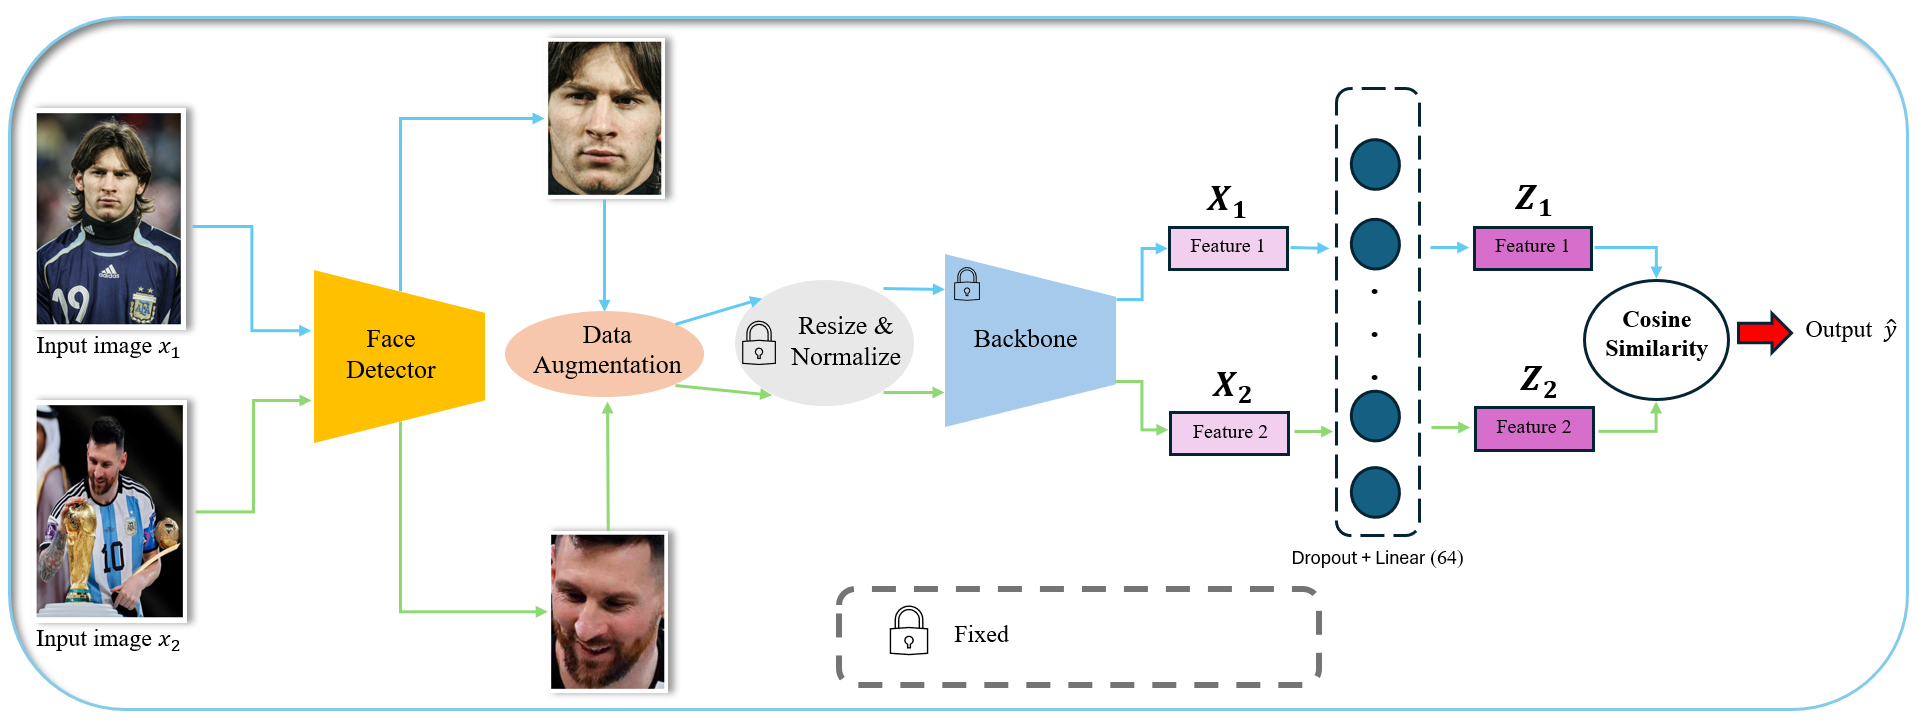
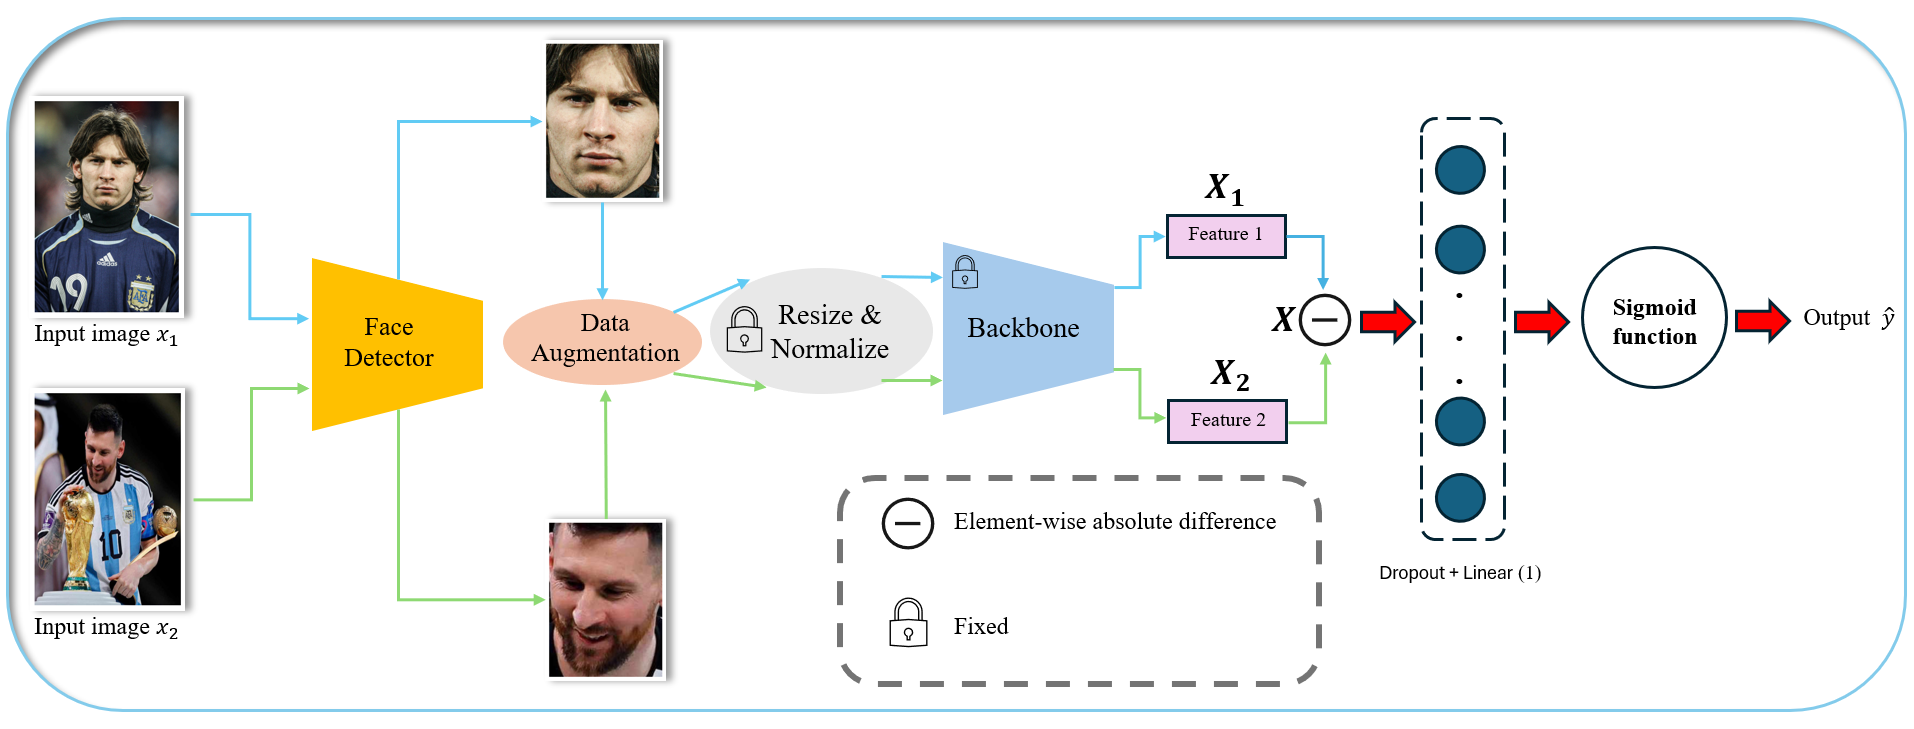
infor of backbone and pipeline

diff --git a/README.md b/README.md
@@ -1,11 +1,25 @@
-# Integrating-YOLO-with-Siamese-Neural-Network-based-on-FaceNet-for-Face-Recognition
+# Integrating YOLO with Siamese Neural Network based on FaceNet for Face Recognition
 This repo utilizes **Siamese Neural Networks (SNNs)** combined with **YOLO** to enhance the effectiveness of face recognition.
 ![pipeline](./image/pipeline.png)
-## Detector
-* Before inputting the image into the FaceNet model, we deploy a detector to identify the location most likely to contain a face, specifically the YOLOv5n model. This process allows us to accurately determine the area where a face may appear, thereby enhancing the accuracy and reliability of the model.
+## Table of Contents
+* [Table of Contents](#table-of-contents)
+* [Main Modules](#main-modules)
+    + [Detector](#detector)
+    + [Backbone](#backbone)
+* [References](#references)
+## Main Modules
+### Detector
+Before inputting the image into the FaceNet model, we deploy a detector to identify the location most likely to contain a face, specifically the **YOLOv5n** model. This process allows us to accurately determine the area where a face may appear, thereby enhancing the accuracy and reliability of the model.\
+After identifying the face location, we will use this region as input for the FaceNet model instead of the original image. The YOLOv5n model has been further trained on the **Face-Detection-Dataset [2]** for a total of 30 epochs to significantly improve its face detection capabilities.
+### Backbone
+The backbone used in the model is **Inception-ResNet (v1)**, pre-trained on the **VGGFace2** dataset. To retain the features learned from this extensive dataset, the entire backbone will remain frozen during training. The model will only update the parameters of the added Linear layer (has Dropout layer before).
+```python
+from facenet_pytorch import InceptionResnetV1
 
-* After identifying the face location, we will use this region as input for the FaceNet model instead of the original image. The YOLOv5n model has been further trained on the [**Face-Detection-Dataset**](https://www.kaggle.com/datasets/fareselmenshawii/face-detection-dataset) for a total of 30 epochs to significantly improve its face detection capabilities.
-## Reference
-Gregory Koch, Richard Zemel, and Ruslan Salakhutdinov. Siamese
+model = InceptionResnetV1(pretrained="vggface2")
+```
+## References
+[1] Gregory Koch, Richard Zemel, and Ruslan Salakhutdinov. Siamese
 neural networks for one-shot image recognition. In ICML Deep Learning
-Workshop, 2015.
+Workshop, 2015.\
+[2] Fares Elmenshawii. Face-detection-dataset. https://www.kaggle.com/datasets/fareselmenshawii/face-detection-dataset, 2023.
